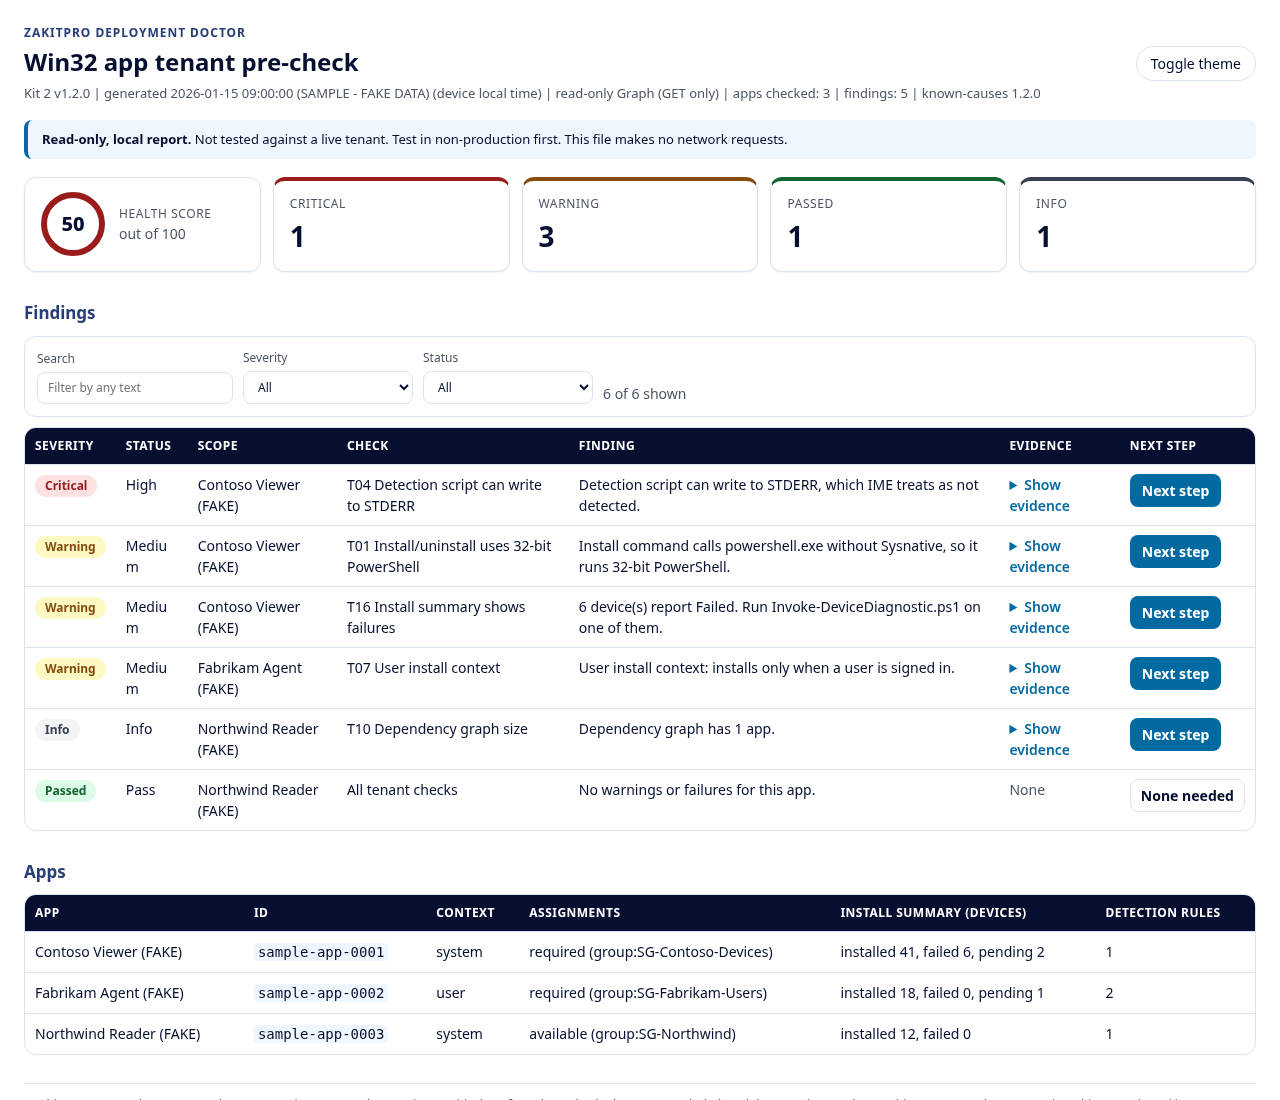
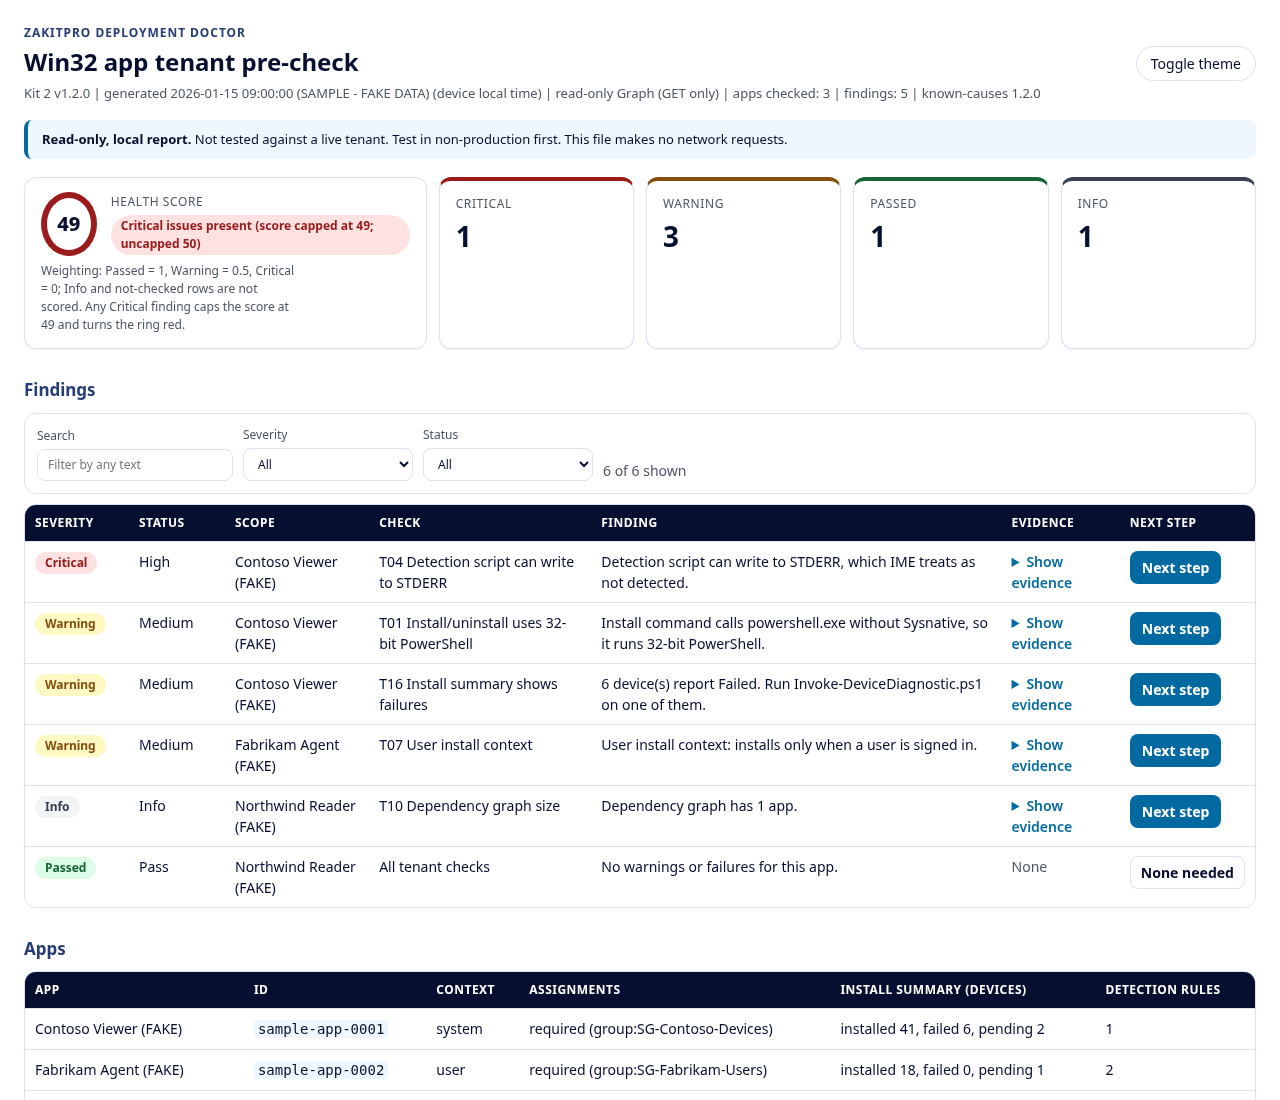
Report: no-wrap pills, Critical caps score at 49 with flag, weighting legend; refresh samples

diff --git a/docs/sample-report.html b/docs/sample-report.html
@@ -16,14 +16,16 @@
 button.tg{font:inherit;cursor:pointer;background:var(--card);color:var(--text);border:1px solid var(--border);border-radius:9999px;padding:6px 14px}
 .tablewrap{overflow-x:auto;border:1px solid var(--border);border-radius:12px;background:var(--card)}table{border-collapse:collapse;width:100%}th{background:var(--head);color:var(--head-text);text-align:left;padding:9px 10px;font-size:12px;text-transform:uppercase;letter-spacing:.04em;position:sticky;top:0}
 td{padding:9px 10px;border-top:1px solid var(--border);vertical-align:top;word-break:break-word}tbody tr:hover{background:var(--surface)}
-.st{display:inline-block;border-radius:9999px;padding:2px 10px;font-size:12px;font-weight:700;white-space:nowrap}.st-red{background:var(--red-bg);color:var(--red-fg)}.st-yellow{background:var(--yellow-bg);color:var(--yellow-fg)}.st-green{background:var(--green-bg);color:var(--green-fg)}.st-grey{background:var(--grey-bg);color:var(--grey-fg)}
+.st{display:inline-block;border-radius:9999px;padding:2px 10px;font-size:12px;font-weight:700;white-space:nowrap;word-break:keep-all}
+#zk-findings th:nth-child(1),#zk-findings td:nth-child(1){min-width:104px;white-space:nowrap}#zk-findings th:nth-child(2),#zk-findings td:nth-child(2){min-width:96px;white-space:nowrap;word-break:keep-all}
+.crit{display:inline-block;margin-top:4px;background:var(--red-bg);color:var(--red-fg);font-weight:700;font-size:12px;border-radius:9999px;padding:2px 10px}.legend{font-size:12px;color:var(--muted);margin-top:6px;max-width:260px}.card.scorecard{grid-column:span 2}.st-red{background:var(--red-bg);color:var(--red-fg)}.st-yellow{background:var(--yellow-bg);color:var(--yellow-fg)}.st-green{background:var(--green-bg);color:var(--green-fg)}.st-grey{background:var(--grey-bg);color:var(--grey-fg)}
 details summary{cursor:pointer;color:var(--link);font-weight:600}pre{white-space:pre-wrap;word-break:break-word;margin:6px 0 0;font:12px/1.5 ui-monospace,"Cascadia Mono",Consolas,monospace;background:var(--surface);padding:8px;border-radius:6px}.print-ev{display:none}
 a{color:var(--link)}a.next{display:inline-block;background:var(--btn);color:var(--btn-text);text-decoration:none;font-weight:700;border-radius:8px;padding:6px 12px;white-space:nowrap}a.next:focus,button.tg:focus,.filters input:focus,.filters select:focus{outline:3px solid #47c0f8;outline-offset:2px}
 .next-code{display:inline-block;border:1px solid var(--border);border-radius:8px;padding:5px 10px;font-weight:700;white-space:nowrap}code{font-family:ui-monospace,Consolas,monospace;background:var(--surface);padding:1px 4px;border-radius:4px}
 footer{margin-top:28px;font-size:12px;color:var(--muted);border-top:1px solid var(--border);padding-top:12px}.hidden-js{display:none}
 @media print{:root,:root[data-theme=dark]{--bg:#ffffff;--surface:#f3f4f6;--card:#ffffff;--text:#000000;--muted:#374151;--secondary:#060f30;--border:#9ca3af;--link:#000000;--head:#ffffff;--head-text:#000000;color-scheme:light}
 .filters,button.tg,details{display:none !important}.print-ev{display:block}.wrap{max-width:none;padding:0}th{position:static;border-bottom:2px solid #000}tr{page-break-inside:avoid}.st{border:1px solid #000}
-a.next{background:none;color:#000;border:1px solid #000}a.next:after{content:" (" attr(href) ")";font-weight:400;word-break:break-all}.card{box-shadow:none}tbody tr[hidden]{display:table-row !important}}</style></head><body><div class="wrap"><header class="top"><div><div class="brand">ZakitPro Deployment Doctor</div><h1>Win32 app tenant pre-check</h1><div class="meta">Kit 2 v1.2.0 | generated 2026-01-15 09:00:00 (SAMPLE - FAKE DATA) (device local time) | read-only Graph (GET only) | apps checked: 3 | findings: 5 | known-causes 1.2.0</div></div><button type="button" id="zk-theme" class="tg hidden-js" aria-label="Toggle dark or light theme">Toggle theme</button></header><div class="banner"><b>Read-only, local report.</b> Not tested against a live tenant. Test in non-production first. This file makes no network requests.</div><section class="grid" aria-label="Summary"><div class="card"><div class="score"><div class="ring red" aria-label="Health score">50</div><div><div class="k">Health score</div><div class="muted">out of 100</div></div></div></div><div class="card red"><div class="k">Critical</div><div class="v">1</div></div><div class="card yellow"><div class="k">Warning</div><div class="v">3</div></div><div class="card green"><div class="k">Passed</div><div class="v">1</div></div><div class="card grey"><div class="k">Info</div><div class="v">1</div></div></section><h2>Findings</h2><div id="zk-filters" class="filters hidden-js" role="search"><label>Search<input id="zk-q" type="search" placeholder="Filter by any text"></label><label>Severity<select id="zk-sev"><option value="">All</option><option value="red">Critical</option><option value="yellow">Warning</option><option value="green">Passed</option><option value="grey">Info</option></select></label><label>Status<select id="zk-st"><option value="">All</option><option value="High">High</option><option value="Info">Info</option><option value="Medium">Medium</option><option value="Pass">Pass</option></select></label><span id="zk-count" class="muted" aria-live="polite"></span></div><div class="tablewrap"><table id="zk-findings"><thead><tr><th>Severity</th><th>Status</th><th>Scope</th><th>Check</th><th>Finding</th><th>Evidence</th><th>Next step</th></tr></thead><tbody><tr data-sev="red" data-st="High"><td><span class="st st-red" data-status="red">Critical</span></td><td>High</td><td>Contoso Viewer (FAKE)</td><td>T04 Detection script can write to STDERR</td><td>Detection script can write to STDERR, which IME treats as not detected.</td><td><details><summary>Show evidence</summary><pre>Write-Error &quot;not found&quot; (line 12 of detect.ps1)</pre></details><pre class="print-ev">Write-Error &quot;not found&quot; (line 12 of detect.ps1)</pre></td><td><a class="next" href="https://learn.microsoft.com/en-us/intune/app-management/deployment/add-win32" rel="noopener noreferrer">Next step</a></td></tr>
+a.next{background:none;color:#000;border:1px solid #000}a.next:after{content:" (" attr(href) ")";font-weight:400;word-break:break-all}.card{box-shadow:none}tbody tr[hidden]{display:table-row !important}}</style></head><body><div class="wrap"><header class="top"><div><div class="brand">ZakitPro Deployment Doctor</div><h1>Win32 app tenant pre-check</h1><div class="meta">Kit 2 v1.2.0 | generated 2026-01-15 09:00:00 (SAMPLE - FAKE DATA) (device local time) | read-only Graph (GET only) | apps checked: 3 | findings: 5 | known-causes 1.2.0</div></div><button type="button" id="zk-theme" class="tg hidden-js" aria-label="Toggle dark or light theme">Toggle theme</button></header><div class="banner"><b>Read-only, local report.</b> Not tested against a live tenant. Test in non-production first. This file makes no network requests.</div><section class="grid" aria-label="Summary"><div class="card scorecard" title="Weighting: Passed = 1, Warning = 0.5, Critical = 0; Info and not-checked rows are not scored. Any Critical finding caps the score at 49 and turns the ring red."><div class="score"><div class="ring red" aria-label="Health score 49 out of 100" data-capped="true">49</div><div><div class="k">Health score</div><div class="crit" role="alert">Critical issues present (score capped at 49; uncapped 50)</div></div></div><div class="legend" id="zk-legend">Weighting: Passed = 1, Warning = 0.5, Critical = 0; Info and not-checked rows are not scored. Any Critical finding caps the score at 49 and turns the ring red.</div></div><div class="card red"><div class="k">Critical</div><div class="v">1</div></div><div class="card yellow"><div class="k">Warning</div><div class="v">3</div></div><div class="card green"><div class="k">Passed</div><div class="v">1</div></div><div class="card grey"><div class="k">Info</div><div class="v">1</div></div></section><h2>Findings</h2><div id="zk-filters" class="filters hidden-js" role="search"><label>Search<input id="zk-q" type="search" placeholder="Filter by any text"></label><label>Severity<select id="zk-sev"><option value="">All</option><option value="red">Critical</option><option value="yellow">Warning</option><option value="green">Passed</option><option value="grey">Info</option></select></label><label>Status<select id="zk-st"><option value="">All</option><option value="High">High</option><option value="Info">Info</option><option value="Medium">Medium</option><option value="Pass">Pass</option></select></label><span id="zk-count" class="muted" aria-live="polite"></span></div><div class="tablewrap"><table id="zk-findings"><thead><tr><th>Severity</th><th>Status</th><th>Scope</th><th>Check</th><th>Finding</th><th>Evidence</th><th>Next step</th></tr></thead><tbody><tr data-sev="red" data-st="High"><td><span class="st st-red" data-status="red">Critical</span></td><td>High</td><td>Contoso Viewer (FAKE)</td><td>T04 Detection script can write to STDERR</td><td>Detection script can write to STDERR, which IME treats as not detected.</td><td><details><summary>Show evidence</summary><pre>Write-Error &quot;not found&quot; (line 12 of detect.ps1)</pre></details><pre class="print-ev">Write-Error &quot;not found&quot; (line 12 of detect.ps1)</pre></td><td><a class="next" href="https://learn.microsoft.com/en-us/intune/app-management/deployment/add-win32" rel="noopener noreferrer">Next step</a></td></tr>
 <tr data-sev="yellow" data-st="Medium"><td><span class="st st-yellow" data-status="yellow">Warning</span></td><td>Medium</td><td>Contoso Viewer (FAKE)</td><td>T01 Install/uninstall uses 32-bit PowerShell</td><td>Install command calls powershell.exe without Sysnative, so it runs 32-bit PowerShell.</td><td><details><summary>Show evidence</summary><pre>powershell.exe -ExecutionPolicy Bypass -File install.ps1</pre></details><pre class="print-ev">powershell.exe -ExecutionPolicy Bypass -File install.ps1</pre></td><td><a class="next" href="https://learn.microsoft.com/en-us/intune/app-management/deployment/add-win32" rel="noopener noreferrer">Next step</a></td></tr>
 <tr data-sev="yellow" data-st="Medium"><td><span class="st st-yellow" data-status="yellow">Warning</span></td><td>Medium</td><td>Contoso Viewer (FAKE)</td><td>T16 Install summary shows failures</td><td>6 device(s) report Failed. Run Invoke-DeviceDiagnostic.ps1 on one of them.</td><td><details><summary>Show evidence</summary><pre>installed 41, failed 6, pending 2</pre></details><pre class="print-ev">installed 41, failed 6, pending 2</pre></td><td><a class="next" href="https://learn.microsoft.com/en-us/graph/api/intune-apps-mobileappinstallsummary-get?view=graph-rest-beta" rel="noopener noreferrer">Next step</a></td></tr>
 <tr data-sev="yellow" data-st="Medium"><td><span class="st st-yellow" data-status="yellow">Warning</span></td><td>Medium</td><td>Fabrikam Agent (FAKE)</td><td>T07 User install context</td><td>User install context: installs only when a user is signed in.</td><td><details><summary>Show evidence</summary><pre>runAsAccount = user</pre></details><pre class="print-ev">runAsAccount = user</pre></td><td><a class="next" href="https://learn.microsoft.com/en-us/intune/app-management/deployment/add-win32" rel="noopener noreferrer">Next step</a></td></tr>
@@ -31,7 +33,7 @@ a.next{background:none;color:#000;border:1px solid #000}a.next:after{content:" (
 <tr data-sev="green" data-st="Pass"><td><span class="st st-green" data-status="green">Passed</span></td><td>Pass</td><td>Northwind Reader (FAKE)</td><td>All tenant checks</td><td>No warnings or failures for this app.</td><td><span class="muted">None</span></td><td><span class="next next-code">None needed</span></td></tr>
 </tbody></table></div><h2>Apps</h2><div class="tablewrap"><table><thead><tr><th>App</th><th>ID</th><th>Context</th><th>Assignments</th><th>Install summary (devices)</th><th>Detection rules</th></tr></thead><tbody><tr><td>Contoso Viewer (FAKE)</td><td><code>sample-app-0001</code></td><td>system</td><td>required (group:SG-Contoso-Devices)</td><td>installed 41, failed 6, pending 2</td><td>1</td></tr>
 <tr><td>Fabrikam Agent (FAKE)</td><td><code>sample-app-0002</code></td><td>user</td><td>required (group:SG-Fabrikam-Users)</td><td>installed 18, failed 0, pending 1</td><td>2</td></tr>
-<tr><td>Northwind Reader (FAKE)</td><td><code>sample-app-0003</code></td><td>system</td><td>available (group:SG-Northwind)</td><td>installed 12, failed 0</td><td>1</td></tr></tbody></table></div><footer>Health score = round(100 x (Passed + 0.5 x Warning) / (Passed + Warning + Critical)); Info and not-checked rows are excluded, and the score is 100 when nothing was scored. It summarises this run only and is not a security rating. Generated locally by a read-only script; no data leaves this file.</footer></div><script>(function(){var d=document,r=d.documentElement;
+<tr><td>Northwind Reader (FAKE)</td><td><code>sample-app-0003</code></td><td>system</td><td>available (group:SG-Northwind)</td><td>installed 12, failed 0</td><td>1</td></tr></tbody></table></div><footer>Health score = round(100 x (Passed + 0.5 x Warning) / (Passed + Warning + Critical)); Info and not-checked rows are excluded, and the score is 100 when nothing was scored. If any Critical finding exists, the score is capped at 49 and shown in red. It summarises this run only and is not a security rating. Generated locally by a read-only script; no data leaves this file.</footer></div><script>(function(){var d=document,r=d.documentElement;
 function setT(t){r.setAttribute("data-theme",t);try{window.localStorage.setItem("zk-theme",t)}catch(e){}}
 try{var s=window.localStorage.getItem("zk-theme");if(s==="dark"||s==="light"){r.setAttribute("data-theme",s)}}catch(e){}
 var f=d.getElementById("zk-filters"),b=d.getElementById("zk-theme");if(f){f.classList.remove("hidden-js")}if(b){b.classList.remove("hidden-js");

diff --git a/README.md b/README.md
@@ -62,7 +62,7 @@ The `known-causes.json` files are trimmed signal maps: cause IDs, match signals/
 
 ## Local HTML report
 Each script writes one self-contained HTML dashboard next to its JSON report. It uses inline CSS and inline vanilla JavaScript only, with no external files, CDNs, web fonts or telemetry. A Content-Security-Policy meta tag blocks network requests from the page.
-- **Summary header:** a health score, plus status cards with counts (Critical, Warning, Passed, Info). The formula is printed in the report footer: `round(100 x (Passed + 0.5 x Warning) / (Passed + Warning + Critical))`. Info and not-checked rows are excluded.
+- **Summary header:** a health score, plus status cards with counts (Critical, Warning, Passed, Info). A legend under the score (also shown as a tooltip and in the footer) explains the weighting: Passed = 1, Warning = 0.5, Critical = 0, and Info and not-checked rows are not scored. Score = `round(100 x (Passed + 0.5 x Warning) / (Passed + Warning + Critical))`. If any Critical finding exists, the score is capped at 49, the ring turns red and a "Critical issues present" label appears.
 - **Findings table:** severity pills (each with a text label), the raw status, scope, check and finding. Evidence is HTML-escaped and collapsible (`<details>`). A **Next step** button links to Microsoft Learn; when no Learn page exists, the cell shows the KC/check code instead.
 - **Filters:** filter by severity and by status, and search by text. With JavaScript disabled, the filters stay hidden and the full table is shown.
 - **Themes:** light and dark, following `prefers-color-scheme`, plus a toggle button. Colours come from the ZakitPro design system, with accessible contrast. Text uses the system font stack.
